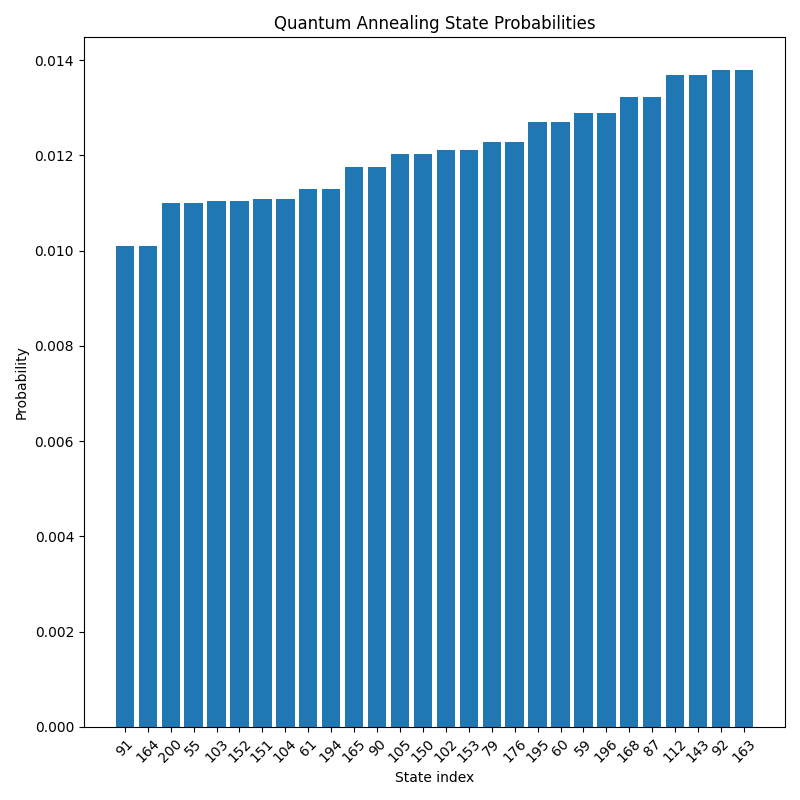
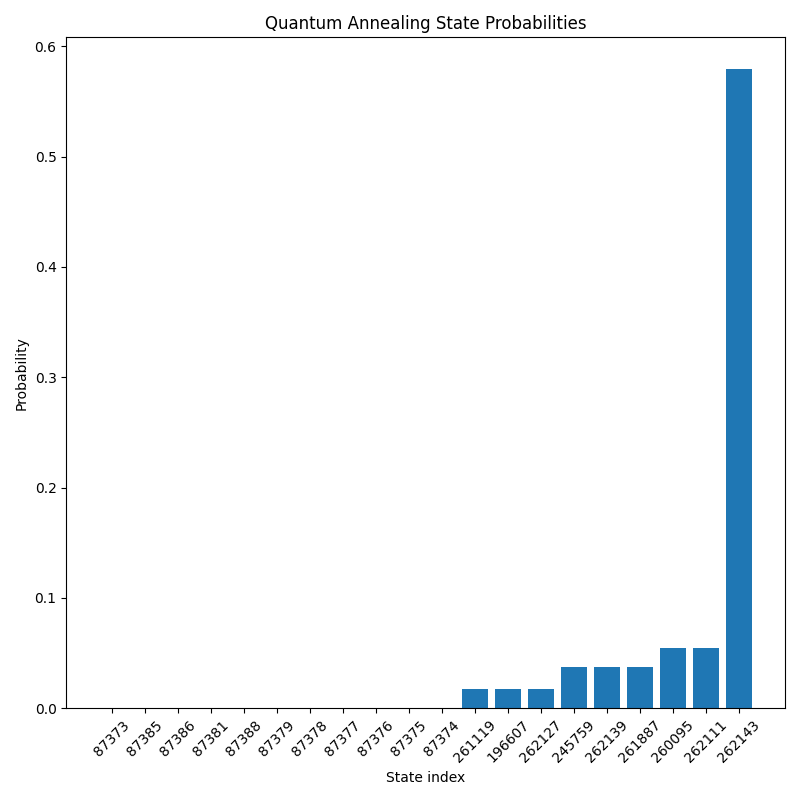
modefy time_evolution and 3_presoners_dilemma done

diff --git a/experiments/3_prisoners_dilemma.c b/experiments/3_prisoners_dilemma.c
@@ -71,7 +71,7 @@ int main()
     double complex f1[Nums] = {0.0 + 0.0 * I};
 
     double B0 = 1.0;
-    int Time = 1000000;
+    int Time = 1000;
     double tau = 1.0;
 
     /*数値シミュレーション上では J[i][j]はいらない。関数式そのものにすべての場合を代入すれば対角成分は計算可能である*/
@@ -105,12 +105,12 @@ int main()
 
         /*ペナルティ項の作成*/
         /*improve : Pen[index] の indexの形に拡張性がない。*/
-        Pen[0] += payoff_of_3_prisoners_dilemma(0, 0, y, z) ;
-        Pen[1] += payoff_of_3_prisoners_dilemma(0,1,y,z);
+        Pen[0] += payoff_of_3_prisoners_dilemma(0, 0, y, z);
+        Pen[1] += payoff_of_3_prisoners_dilemma(0, 1, y, z);
         Pen[2] += payoff_of_3_prisoners_dilemma(1, x, 0, z);
-        Pen[3] += payoff_of_3_prisoners_dilemma(1,x,1,z);
-        Pen[4] += payoff_of_3_prisoners_dilemma(2,x,y,0);
-        Pen[5] += payoff_of_3_prisoners_dilemma(2,x,y,1);
+        Pen[3] += payoff_of_3_prisoners_dilemma(1, x, 1, z);
+        Pen[4] += payoff_of_3_prisoners_dilemma(2, x, y, 0);
+        Pen[5] += payoff_of_3_prisoners_dilemma(2, x, y, 1);
 
         for (j = 0; j < num_pen; j++)
         {
@@ -138,7 +138,7 @@ int main()
 
         if (H[i] == 0)
         {
-            printf("i = %d\n",i);
+            printf("i = %d\n", i);
             printf("H0 = %d\n", (-1) * payoff_sum[x][y][z]);
             for (j = 0; j < num_pen; j++)
             {
@@ -150,17 +150,16 @@ int main()
 
     printf("finished");
 
-    // /*時間発展*/
-    // time_evolution(f1, J, Time, B0, tau);
+    /*時間発展*/
+    time_evolution_Hamiltonian(f1,H,Time,B0,tau);
 
-    // /*正規化.時間発展中で毎回行うのが実際だが、計算上は最後にまとめて行っても良い。*/
-    // normalize(f1);
-
-    // /*最終出力*/
-    // double p;
-    // for (int i = 0; i < Nums; i++)
-    // {
-    //     p = cabs(f1[i]) * cabs(f1[i]);
-    //     printf("%d : %f\n", i, p);
-    // }
+    /*最終出力*/
+    double p;
+    for (int i = 0; i < Nums; i++)
+    {
+        p = cabs(f1[i]) * cabs(f1[i]);
+        if (p > 0.01){
+            printf("%d : %f\n", i, p);
+        }
+    }
 }

diff --git a/src/annealing_util.c b/src/annealing_util.c
@@ -68,9 +68,7 @@ void embed_diagonal_H(double H[Nums], double J[N][N])
     }
 }
 
-/*時間発展*/
-void time_evolution(double complex f1[Nums], double J[N][N], int Time, double B0, double tau)
-{
+void time_evolution_Hamiltonian(double complex f1[Nums], double H[Nums], int Time, double B0, double tau){
     double dt = tau / (double)Time;
     int time;
     double t;
@@ -82,9 +80,6 @@ void time_evolution(double complex f1[Nums], double J[N][N], int Time, double B0
         f0[i] = (1.0 / sqrt(Nums)) + 0.0 * I;
     }
 
-    /*ハミルトニアン対角成分の定義*/
-    double H[Nums] = {0.0};
-    embed_diagonal_H(H, J);
     /*時間発展関数化 (f0,f1)を入れたら、それを変更したい。*/
     for (time = 0; time < Time; time++)
     {
@@ -131,6 +126,18 @@ void time_evolution(double complex f1[Nums], double J[N][N], int Time, double B0
         //  printf("\n");
     }
 }
+
+/*時間発展*/
+void time_evolution(double complex f1[Nums], double J[N][N], int Time, double B0, double tau)
+{
+    /*ハミルトニアン対角成分の定義*/
+    double H[Nums] = {0.0};
+    embed_diagonal_H(H, J);
+    
+    /*ハミルトニアンの対角項を渡して計算させる*/
+    time_evolution_Hamiltonian(f1,H,Time,B0,tau);
+}
+
 
 /*正規化*/
 void normalize(double complex psi[Nums])

diff --git a/src/annealing.h b/src/annealing.h
@@ -20,6 +20,9 @@ int hamDistance(int i,int j);
 /*Make Hamiltonian*/
 void embed_diagonal_H(double H[Nums], double J[N][N]);
 
+/*Time Evolution Hamiltonian*/
+void time_evolution_Hamiltonian(double complex f1[Nums],double H[Nums],int Time,double B0, double tau);
+
 /*Time Evolution*/
 void time_evolution(double complex f1[Nums],double J[N][N],int Time,double B0,double tau);
 

diff --git a/memo.md b/memo.md
@@ -58,3 +58,17 @@ Claude Haiku 4.5 • 1x
     ```C
     memset(payoff_sum, 0, sizeof(payoff_sum));
     ```
+
+## Linux
+- exportは実行時のコマンド、ライブラリのパスを探索させる
+```shell
+    export PATH=/usr/local/cuda/bin:$PATH
+    export LD_LIBRARY_PATH=/usr/local/cuda/lib64:$LD_LIBRARY_PATH
+```
+PATH : コマンド , LD_LIBRARY_PATH : ライブラリのパス
+" : " はそれにくっつけるだけ, $PATH で今までのPATHに追加することになる。
+
+
+
+## 研究
+3人囚人の最適は 2001448
